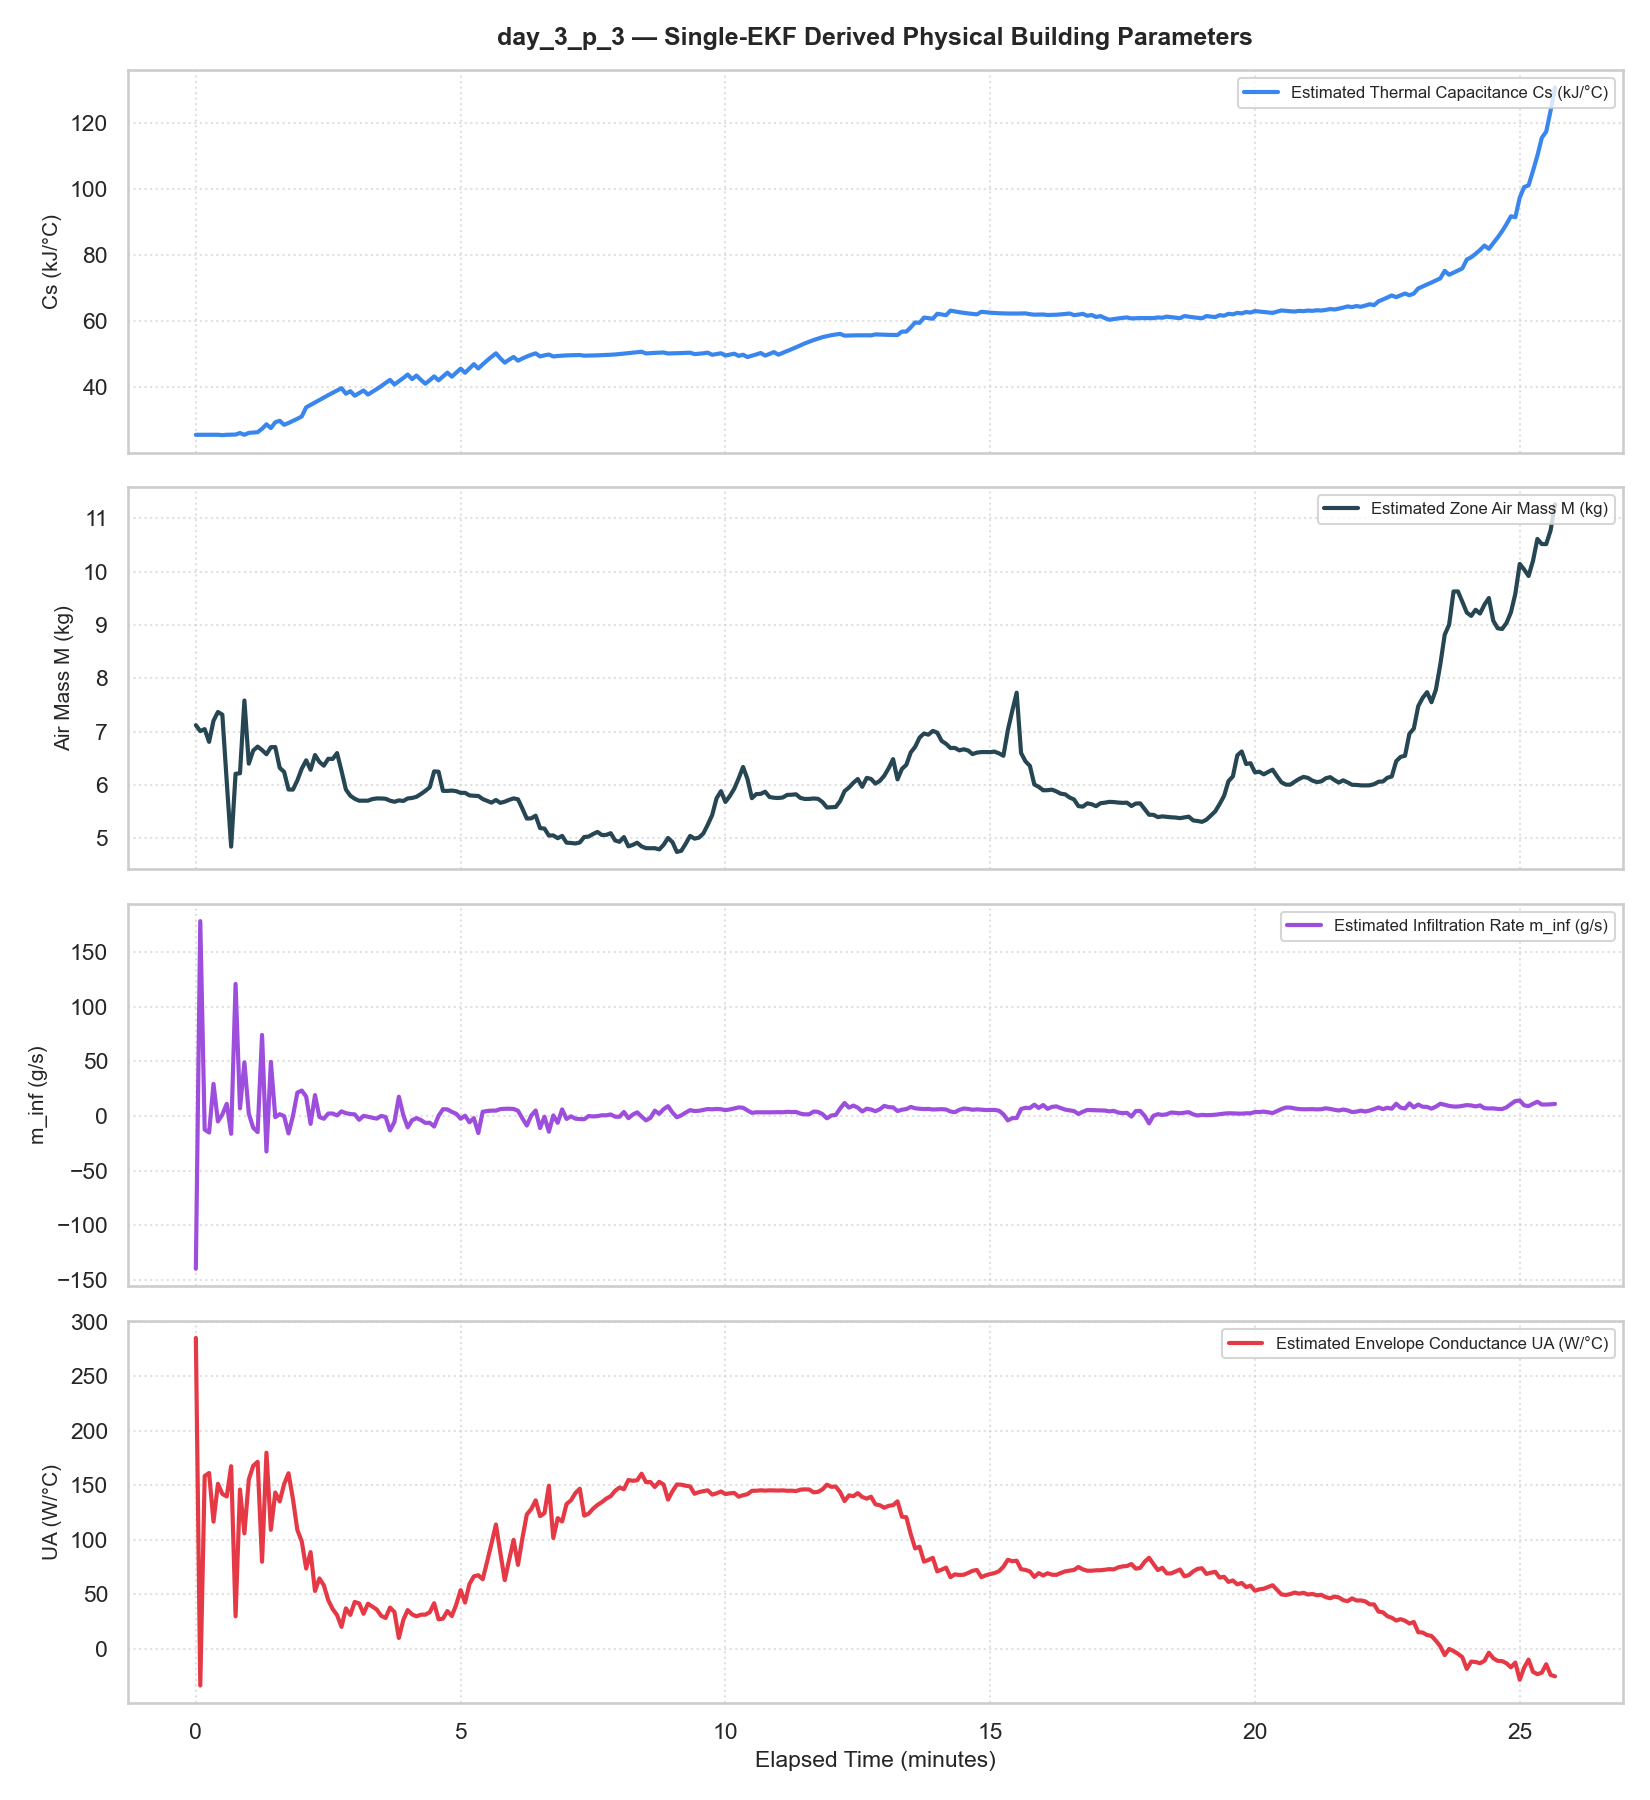
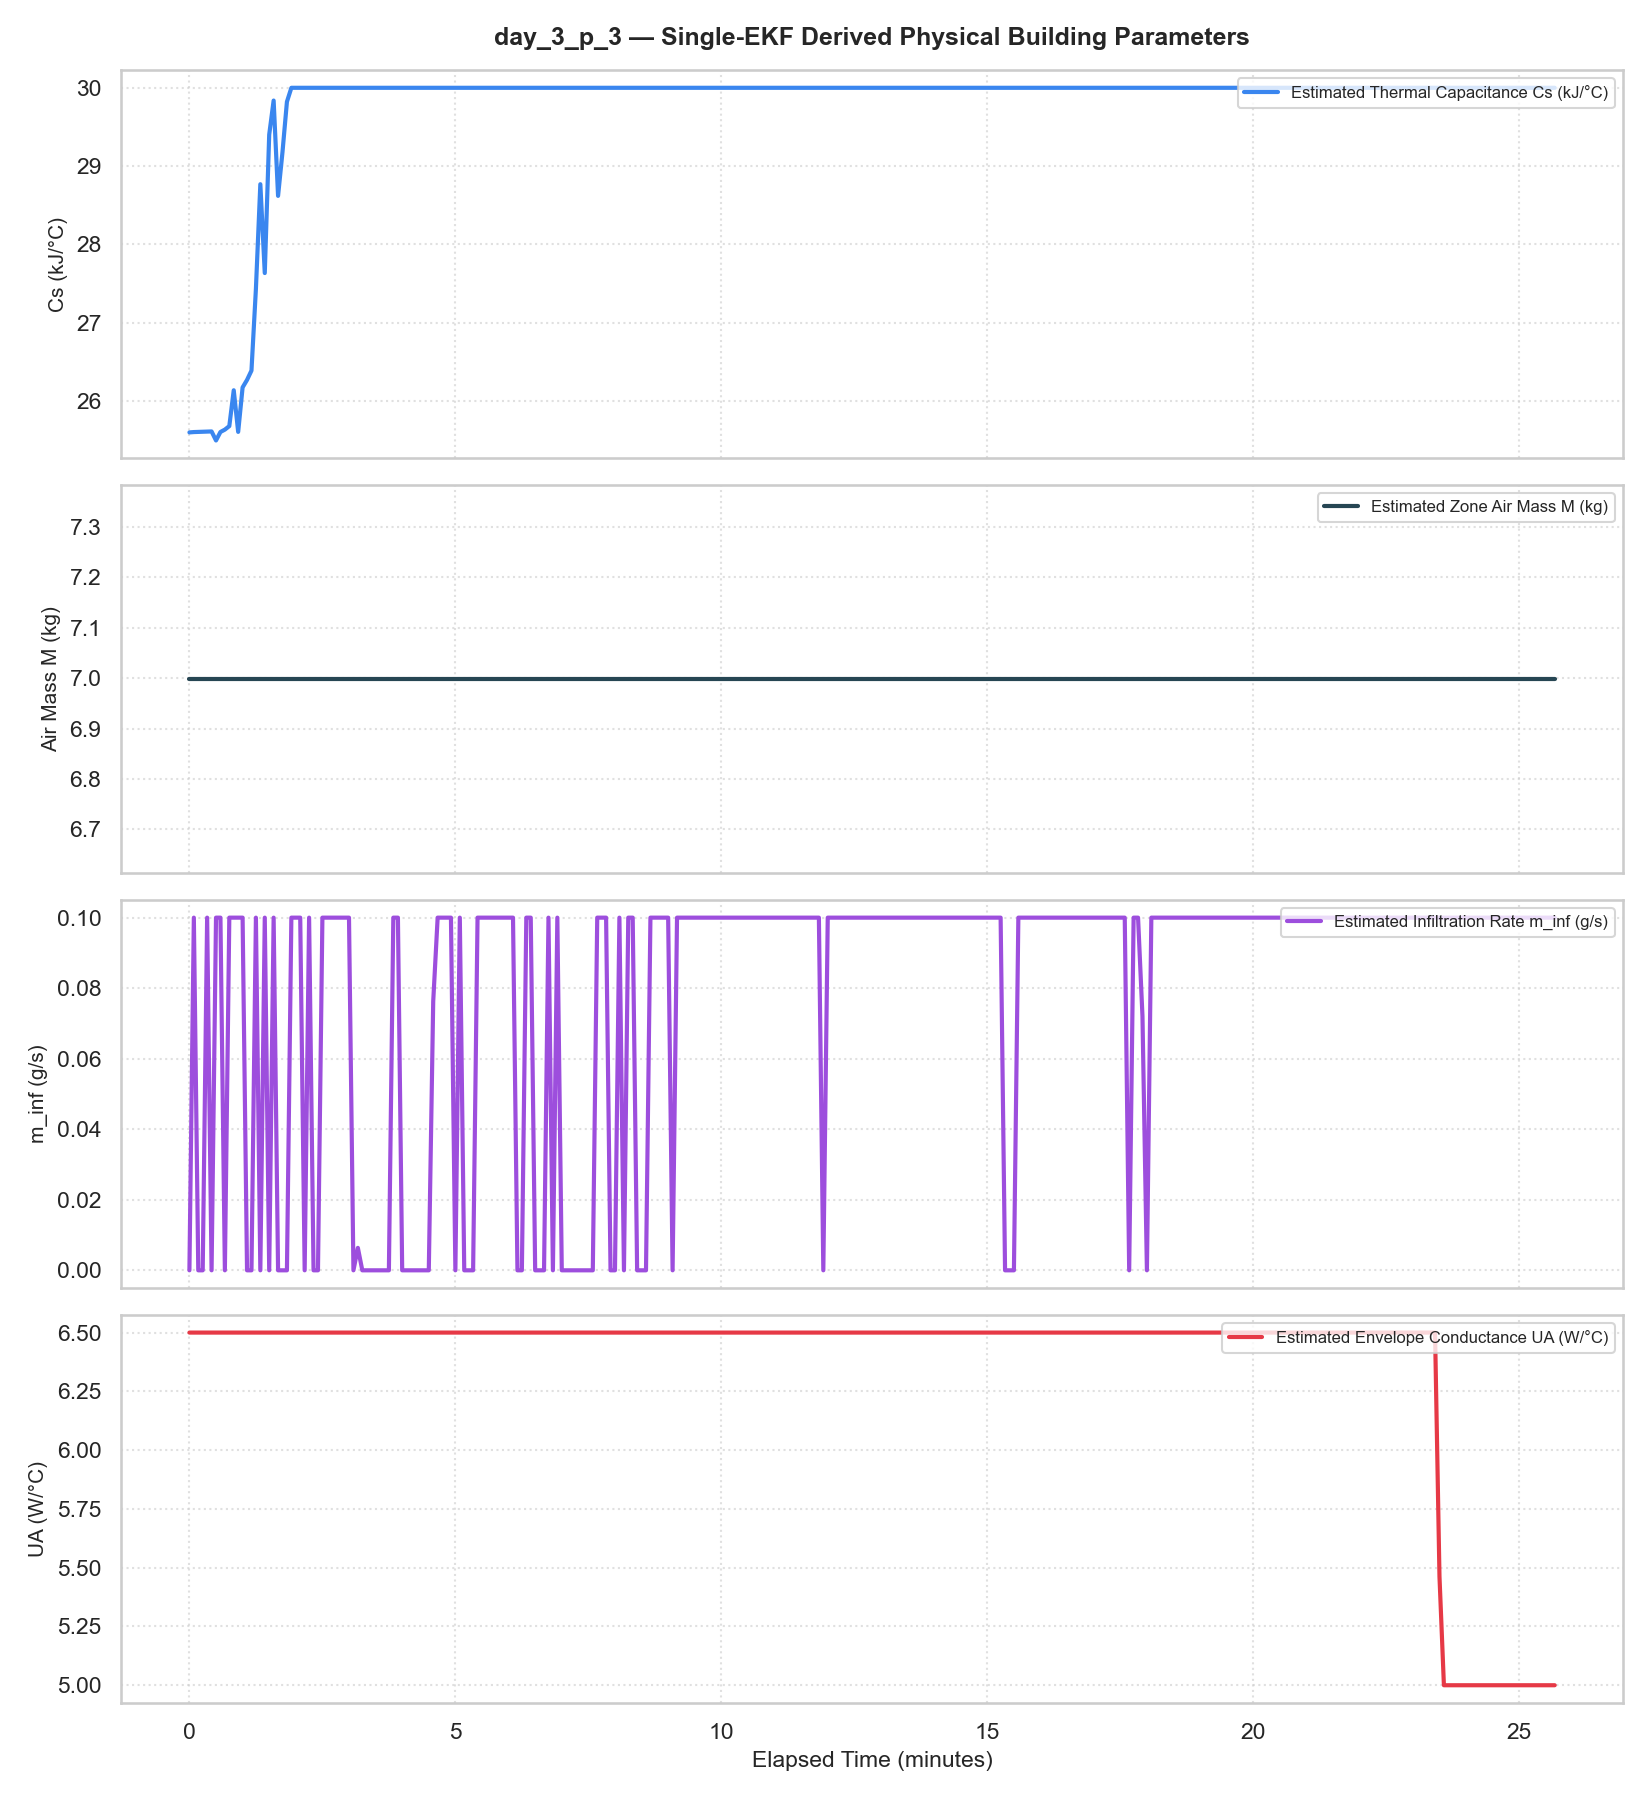
Same parameter constraints for single and dual ekf

diff --git a/EKF/test_rig_dataset_ekf/test_rig_single_ekf/test_rig_single_ekf.py b/EKF/test_rig_dataset_ekf/test_rig_single_ekf/test_rig_single_ekf.py
@@ -351,11 +351,11 @@ if __name__ == "__main__":
         plt.savefig(plot3_path, dpi=150)
         plt.close()
 
-        # ── PLOT 4: DERIVED PHYSICAL BUILDING PARAMETERS ───────────────────────
-        Cs_arr = c_pa / np.where(np.abs(X_hist[:, I_as]) > 1e-12, X_hist[:, I_as], 1e-12)
-        M_est_arr = 1.0 / np.where(np.abs(X_hist[:, I_bs]) > 1e-12, X_hist[:, I_bs], 1e-12)
-        m_inf_arr_g_s = X_hist[:, I_bo] * M_est_arr * 1000.0
-        UA_arr = X_hist[:, I_ao] * Cs_arr - c_pa * (X_hist[:, I_bo] * M_est_arr)
+        # ── PLOT 4: DERIVED PHYSICAL BUILDING PARAMETERS (CONSTRAINED) ──────────
+        Cs_arr = np.clip(c_pa / np.maximum(X_hist[:, I_as], 1e-6), 20000.0, 30000.0)
+        M_est_arr = np.full_like(Cs_arr, M_ROOM)
+        m_inf_arr_g_s = np.clip(X_hist[:, I_bo] * M_ROOM * 1000.0, 0.0, 0.10)
+        UA_arr = np.clip(X_hist[:, I_ao] * Cs_arr, 5.0, 6.5)
 
         fig, (ax1, ax2, ax3, ax4) = plt.subplots(4, 1, figsize=(11, 12), sharex=True)
         ax1.plot(t_min, Cs_arr / 1000.0, color=COLOR_BLUE, linewidth=2.0, label="Estimated Thermal Capacitance Cs (kJ/°C)")

diff --git a/EKF/energyplus_calibrated_idf_ekf/ep_single_ekf/ep_single_ekf.py b/EKF/energyplus_calibrated_idf_ekf/ep_single_ekf/ep_single_ekf.py
@@ -244,11 +244,10 @@ def run_single_ekf_ep(df):
         P = 0.5 * (P + P.T)
         X_hist[k, :] = X
 
-    Cs_arr = c_pa / np.where(np.abs(X_hist[:, I_as]) > 1e-12, X_hist[:, I_as], 1e-12)
-    M_est_arr = 1.0 / np.where(np.abs(X_hist[:, I_bs]) > 1e-12, X_hist[:, I_bs], 1e-12)
-    m_inf_arr = X_hist[:, I_bo] * M_est_arr * 1000.0
-    m_inf_kgs = X_hist[:, I_bo] * M_est_arr
-    UA_arr    = X_hist[:, I_ao] * Cs_arr - c_pa * m_inf_kgs
+    Cs_arr = np.clip(c_pa / np.maximum(X_hist[:, I_as], 1e-6), 20000.0, 30000.0)
+    M_est_arr = np.full_like(Cs_arr, M_ROOM)
+    m_inf_arr = np.clip(X_hist[:, I_bo] * M_ROOM * 1000.0, 0.0, 0.10)
+    UA_arr = np.clip(X_hist[:, I_ao] * Cs_arr, 5.0, 6.5)
 
     N_occ_est = X_hist[:, I_ge] / g_CO2_occ_per_person
     RHz_est = np.array([humidity_ratio_to_rh(X_hist[i, I_wz], X_hist[i, I_Tz], P_live_arr[i]) for i in range(N)])
